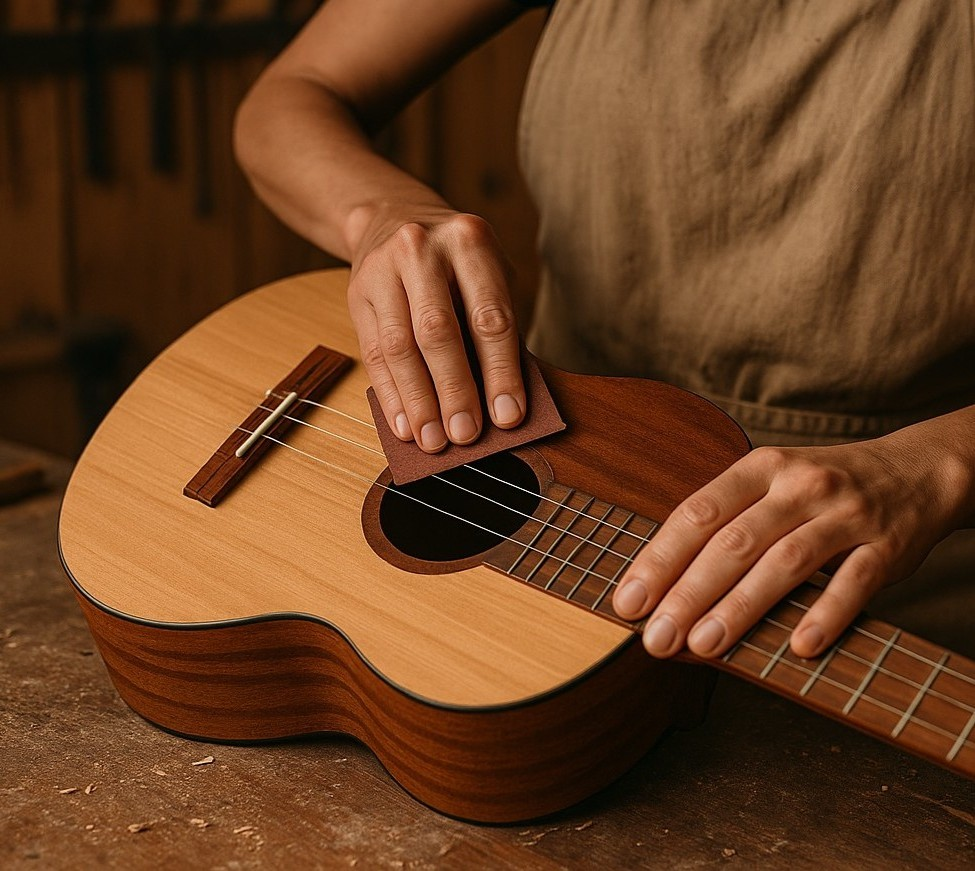
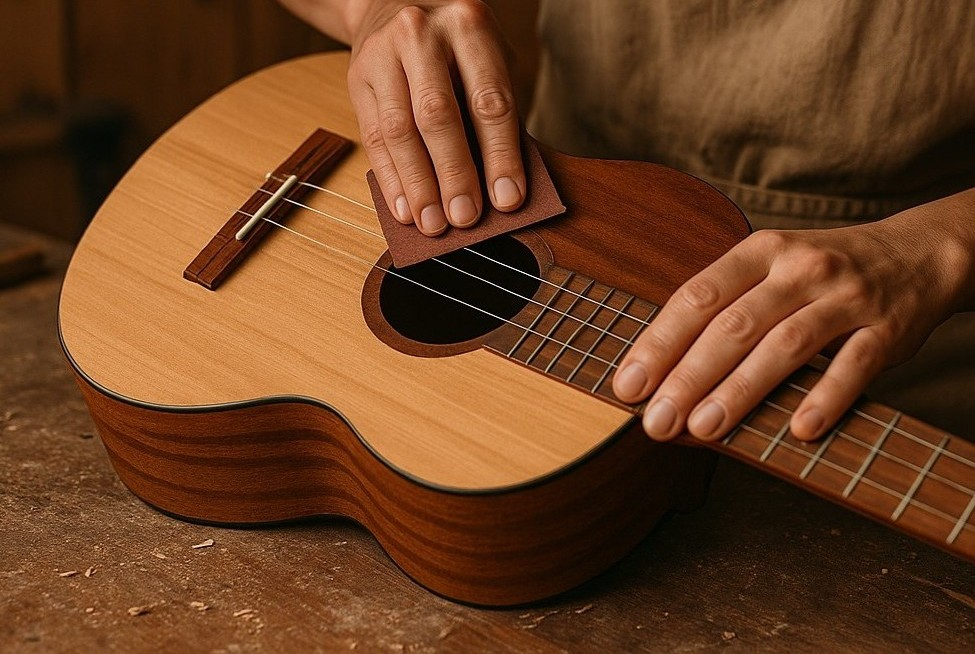
v0.84.3

diff --git a/src/components/About.tsx b/src/components/About.tsx
@@ -114,8 +114,8 @@ export function About() {
                 <Image
                   src="/images/luthier-working.jpg" // Asegúrate de tener esta imagen
                   alt="Luthier trabajando en su taller"
-                  width={600}
-                  height={400}
+                  width={975}
+                  height={654}
                   className="w-full h-80 object-cover"
                   placeholder="blur"
[1 lines of base64/hex data omitted]
